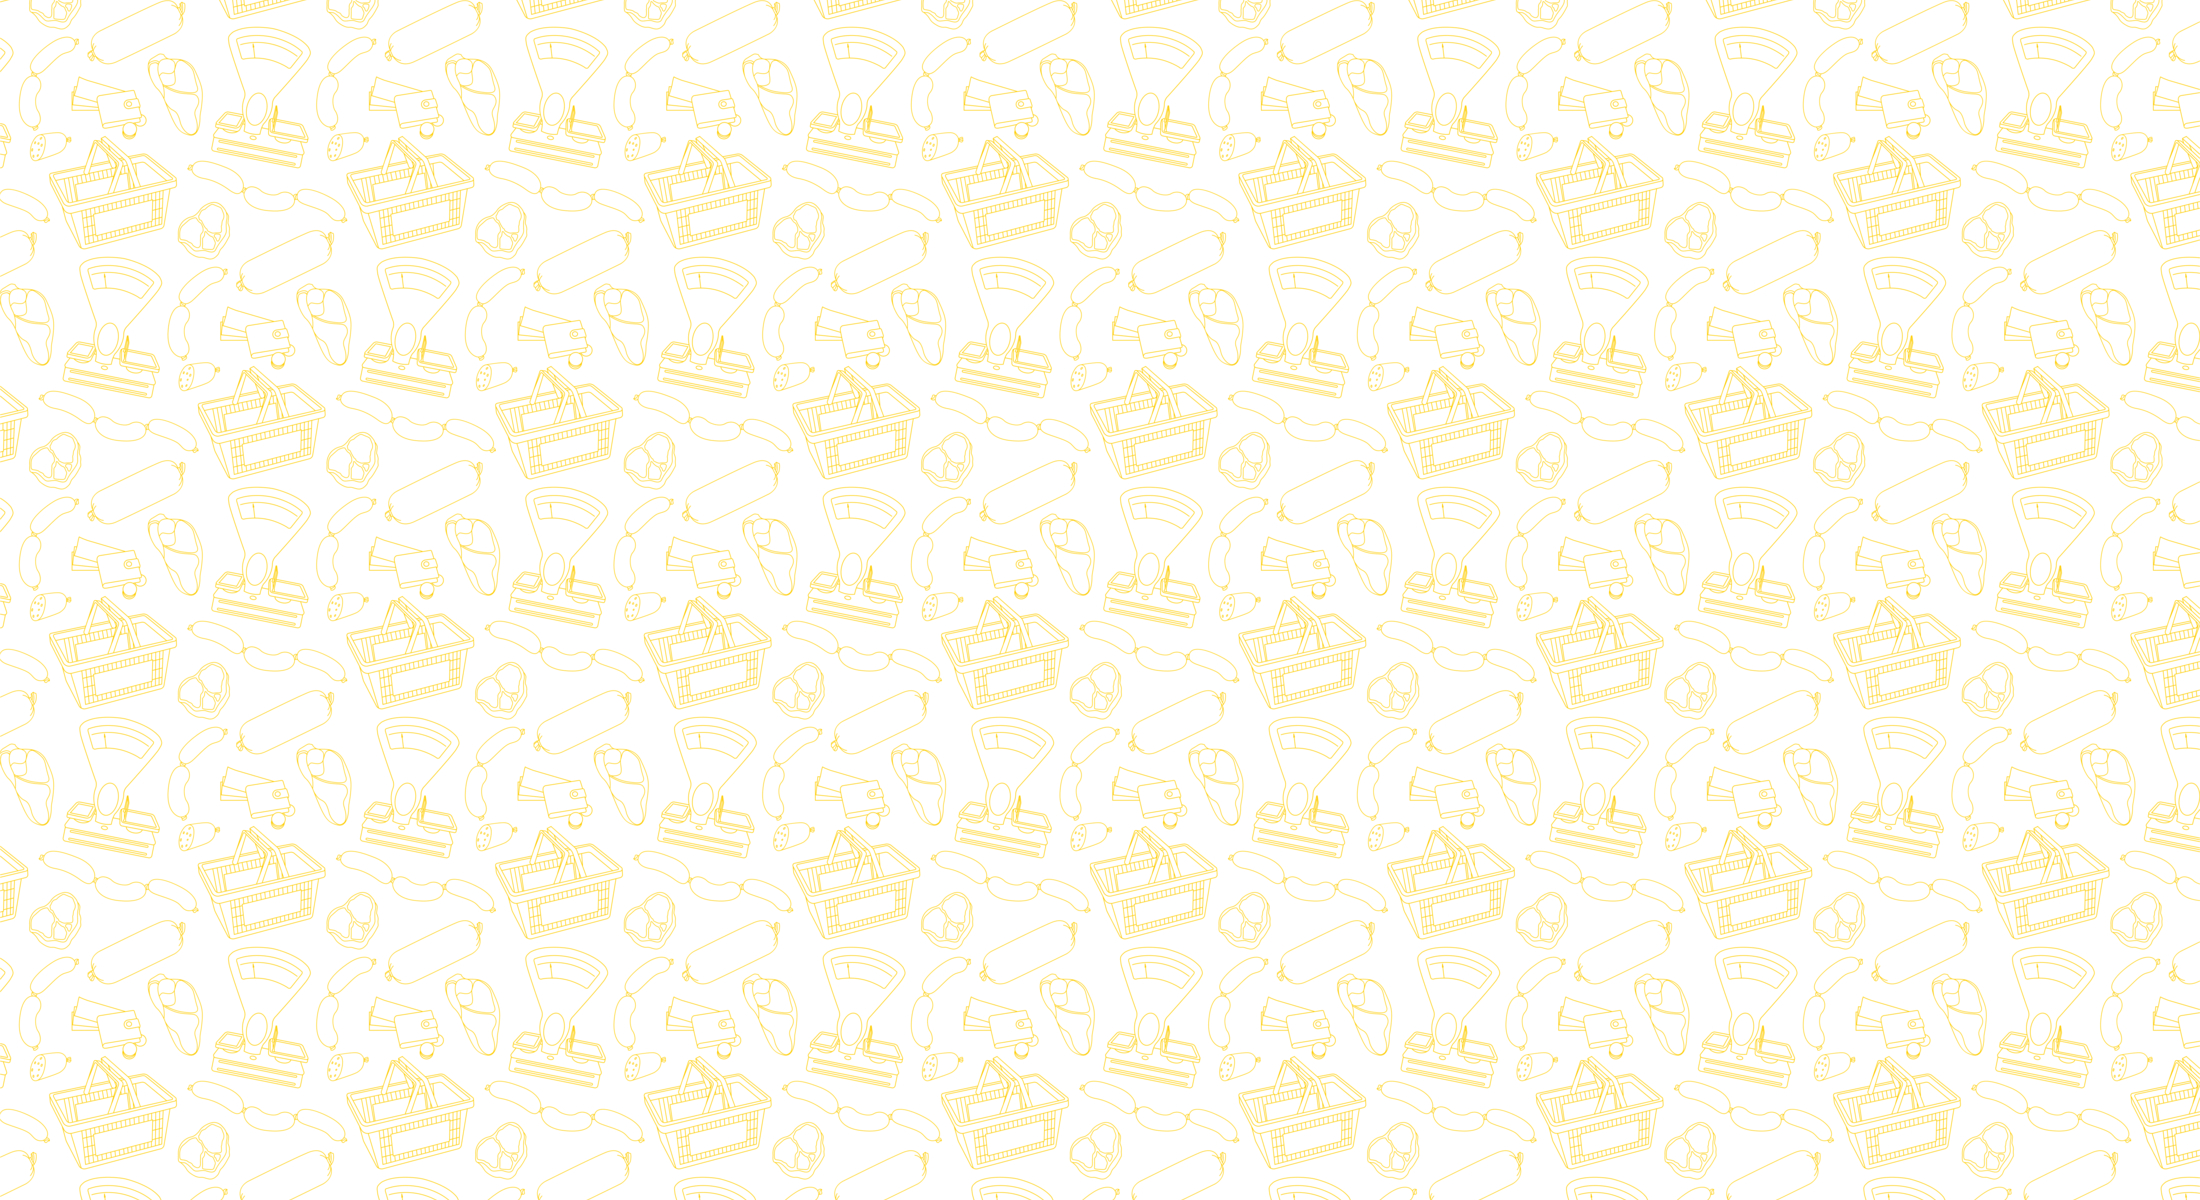
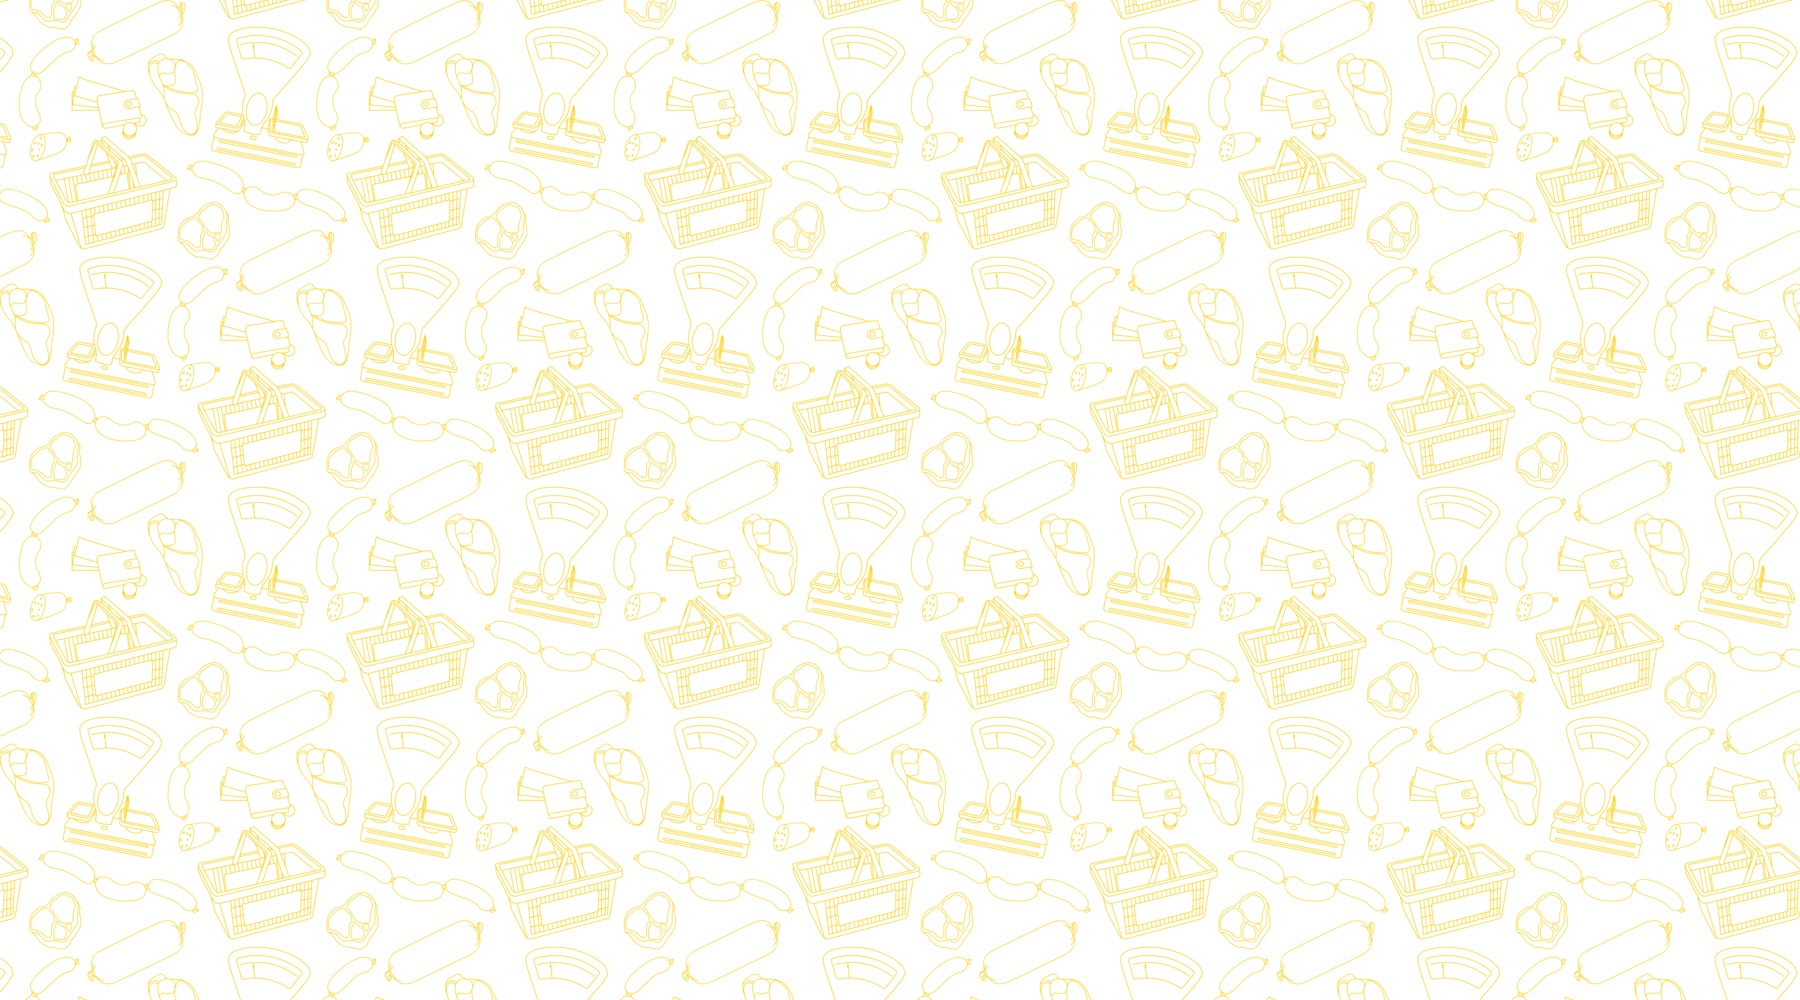
Changed background image.

diff --git a/lib/views/history_orders/order_history_page.dart b/lib/views/history_orders/order_history_page.dart
@@ -79,7 +79,7 @@ class _OrderHistoryPageState extends State<OrderHistoryPage> {
                 fit: BoxFit.cover,
               ),
               Scaffold(
-                backgroundColor: Colors.white.withOpacity(0.85),
+                backgroundColor: Colors.transparent,
                 body: SingleChildScrollView(
                   child: SizedBox(
                     width: MediaQuery.of(context).size.width,

diff --git a/lib/utils/just_pattern.dart b/lib/utils/just_pattern.dart
@@ -34,7 +34,7 @@ class _JustPageState extends State<JustPage> {
               fit: BoxFit.cover,
             ),
             Scaffold(
-              backgroundColor: Colors.white.withOpacity(0.85),
+              backgroundColor: Colors.transparent,
               appBar: PreferredSize(
                   preferredSize: const Size.fromHeight(60.0),
                   child: buildAppBar('Авторизация')),

diff --git a/lib/views/order/new_order_page.dart b/lib/views/order/new_order_page.dart
@@ -42,7 +42,7 @@ class _NewOrderPageState extends State<NewOrderPage> {
                 fit: BoxFit.cover,
               ),
               Scaffold(
-                backgroundColor: Colors.white.withOpacity(0.85),
+                backgroundColor: Colors.transparent,
                 body: SingleChildScrollView(
                   child: SizedBox(
                     width: MediaQuery.of(context).size.width,

diff --git a/lib/views/catalog/catalog_page.dart b/lib/views/catalog/catalog_page.dart
@@ -51,7 +51,7 @@ class _CatalogPageState extends State<CatalogPage> {
                 fit: BoxFit.cover,
               ),
               Scaffold(
-                backgroundColor: Colors.white.withOpacity(0.85),
+                backgroundColor: Colors.transparent,
                 body: SingleChildScrollView(
                   child: SizedBox(
                     width: MediaQuery.of(context).size.width,

diff --git a/lib/views/order/sales_representative_orders.dart b/lib/views/order/sales_representative_orders.dart
@@ -94,7 +94,7 @@ class _SalesRepresentativeOrdersState extends State<SalesRepresentativeOrders> {
                 fit: BoxFit.cover,
               ),
               Scaffold(
-                backgroundColor: Colors.white.withOpacity(0.85),
+                backgroundColor: Colors.transparent,
                 body: SingleChildScrollView(
                     child: Column(children: [
                   Row(

diff --git a/lib/views/history_orders/history_counteragents_page.dart b/lib/views/history_orders/history_counteragents_page.dart
@@ -65,7 +65,7 @@ class _HistoryCounteragnetsPageState extends State<HistoryCounteragnetsPage> {
                 fit: BoxFit.cover,
               ),
               Scaffold(
-                backgroundColor: Colors.white.withOpacity(0.85),
+                backgroundColor: Colors.transparent,
                 body: SingleChildScrollView(
                   child: Column(
                     children: [

diff --git a/lib/views/history_orders/history_local_products_list.dart b/lib/views/history_orders/history_local_products_list.dart
@@ -39,7 +39,7 @@ class _HistoryLocalProductsListState extends State<HistoryLocalProductsList> {
               fit: BoxFit.cover,
             ),
             Scaffold(
-                backgroundColor: Colors.white.withOpacity(0.85),
+                backgroundColor: Colors.transparent,
                 body: SingleChildScrollView(
                     child: Column(children: [
                   Row(

diff --git a/lib/views/history_orders/history_legal_stores_page.dart b/lib/views/history_orders/history_legal_stores_page.dart
@@ -45,7 +45,7 @@ class _HistoryLegalStoresPageState extends State<HistoryLegalStoresPage> {
                 fit: BoxFit.cover,
               ),
               Scaffold(
-                backgroundColor: Colors.white.withOpacity(0.85),
+                backgroundColor: Colors.transparent,
                 body: SingleChildScrollView(
                   child: Column(
                     children: [

diff --git a/lib/views/authorization/login_page.dart b/lib/views/authorization/login_page.dart
@@ -230,7 +230,7 @@ class _LoginPageState extends State<LoginPage> {
           fit: BoxFit.cover,
         ),
         Scaffold(
-            backgroundColor: Colors.white.withOpacity(0.85),
+            backgroundColor: Colors.transparent,
             appBar: PreferredSize(
                 preferredSize: const Size.fromHeight(60.0),
                 child: buildAppBar('Авторизация')),

diff --git a/lib/views/legal_entities/legal_outlet_list.dart b/lib/views/legal_entities/legal_outlet_list.dart
@@ -75,7 +75,7 @@ class _LegalOutletListPageState extends State<LegalOutletListPage> {
                 fit: BoxFit.cover,
               ),
               Scaffold(
-                backgroundColor: Colors.white.withOpacity(0.85),
+                backgroundColor: Colors.transparent,
                 body: SingleChildScrollView(
                   child: Column(
                     children: [

diff --git a/lib/views/basket/basket_page.dart b/lib/views/basket/basket_page.dart
@@ -347,7 +347,7 @@ class _BasketPageState extends State<BasketPage> {
                 fit: BoxFit.cover,
               ),
               Scaffold(
-                  backgroundColor: Colors.white.withOpacity(0.85),
+                  backgroundColor: Colors.transparent,
                   body: SingleChildScrollView(
                       child: Column(children: [
                     Row(

diff --git a/lib/views/history_orders/history_products_list.dart b/lib/views/history_orders/history_products_list.dart
@@ -37,7 +37,7 @@ class _HistoryProductsListState extends State<HistoryProductsList> {
               fit: BoxFit.cover,
             ),
             Scaffold(
-                backgroundColor: Colors.white.withOpacity(0.85),
+                backgroundColor: Colors.transparent,
                 body: SingleChildScrollView(
                     child: Column(children: [
                   Row(
